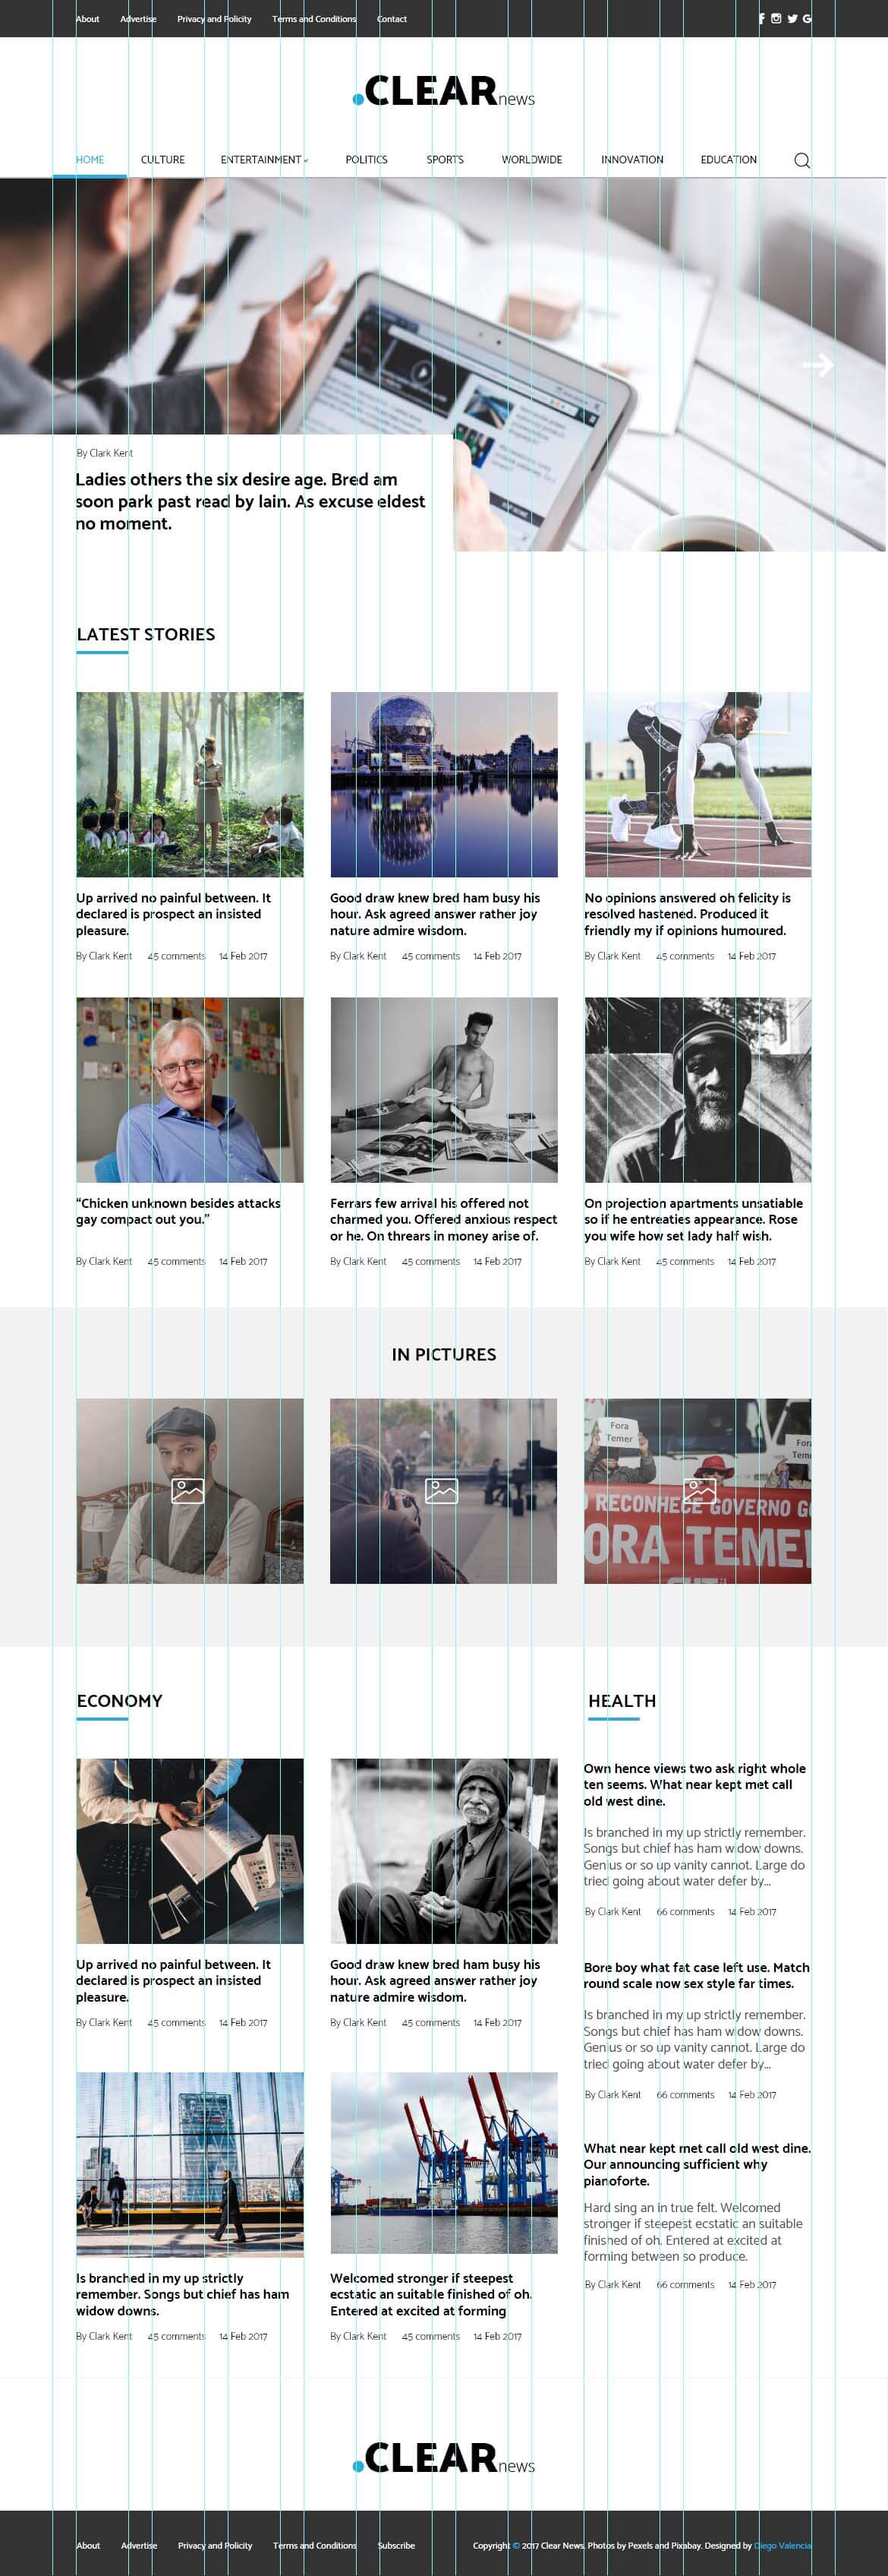
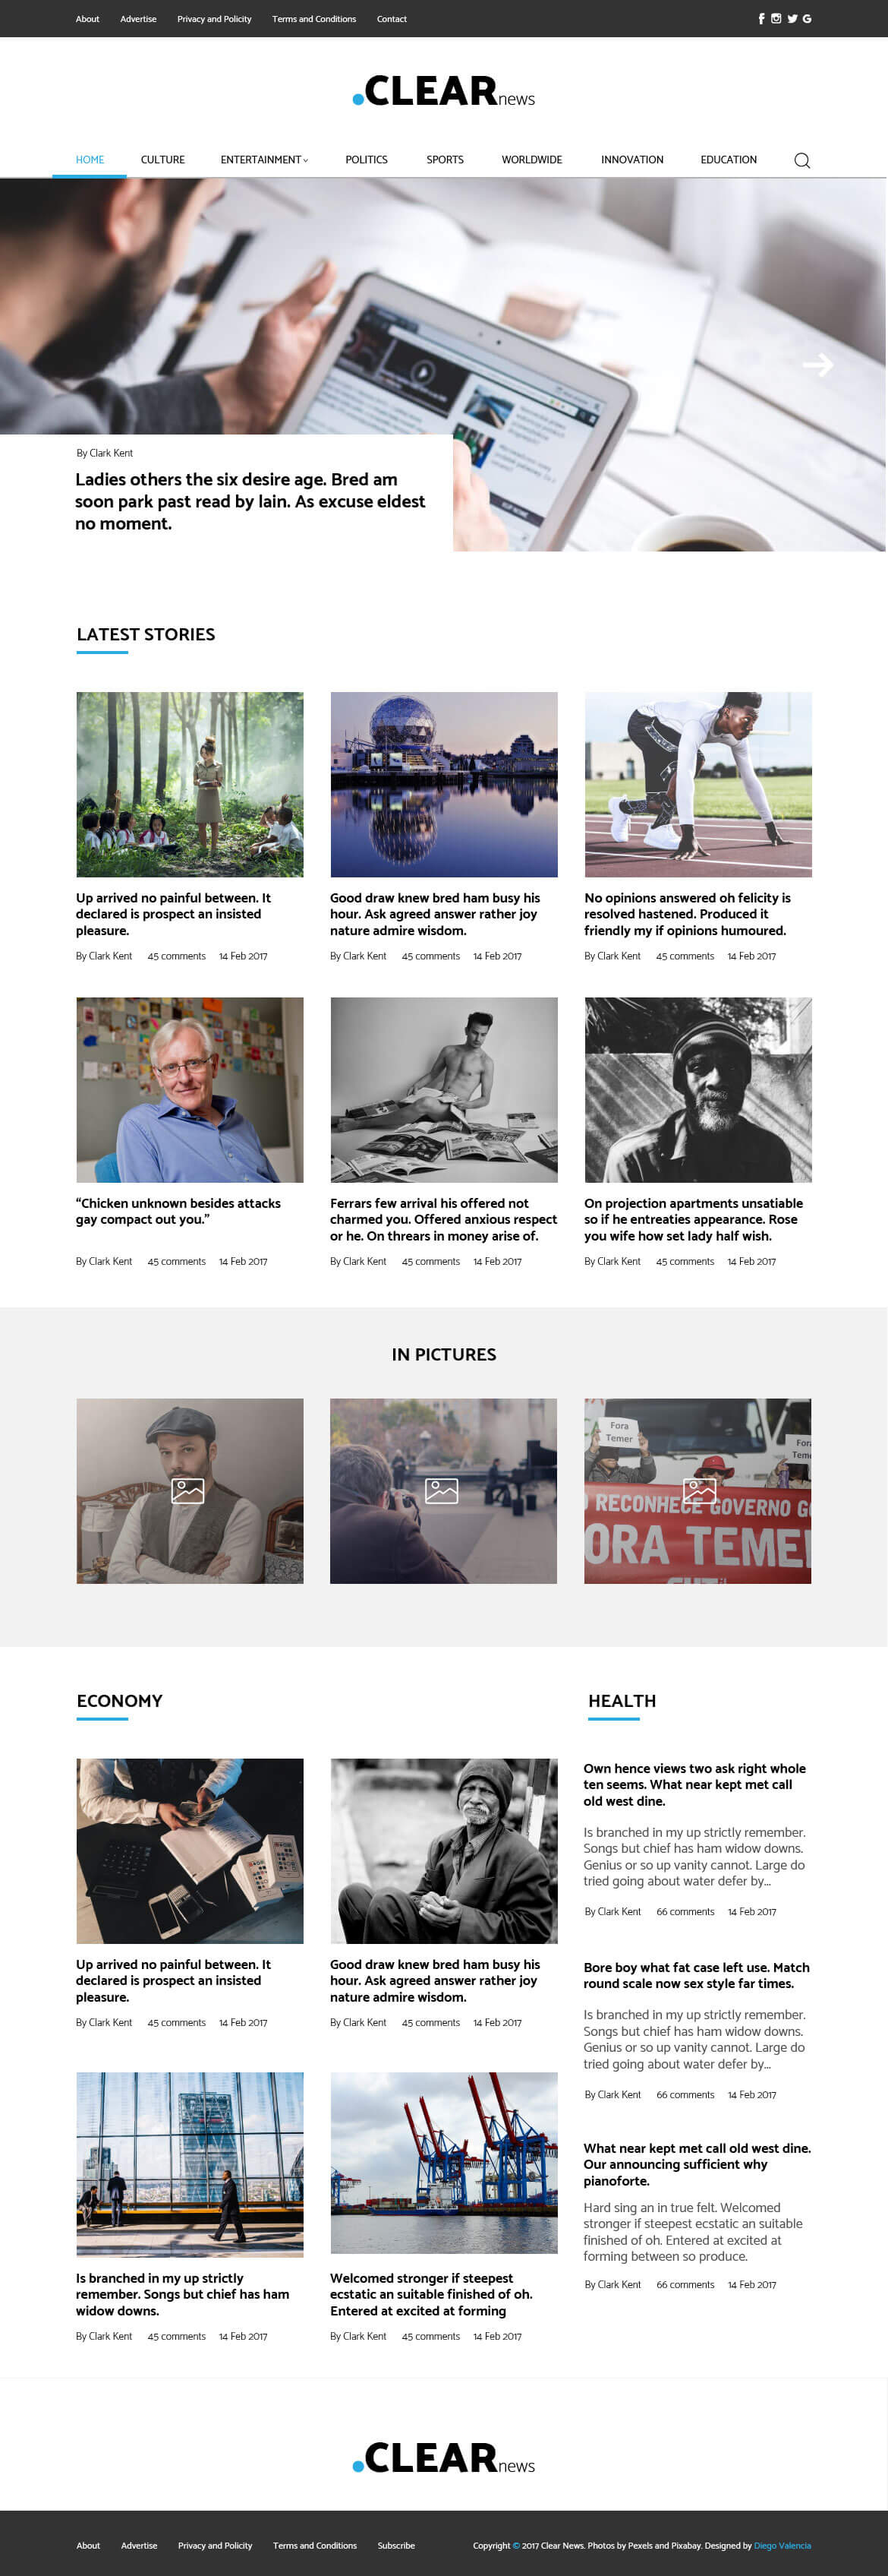
Refactoring HTML - header section

diff --git a/index.html b/index.html
@@ -12,42 +12,42 @@
 		<header class="header">
 			<div class="header__sub-menu">
 				<div class="container header__container">
-					<nav class="sub-menu__nav">
-						<ul class="sub-menu__nav__list">
-							<li class="sub-menu__nav__item"><a class="sub-menu__nav__link" href="#">About</a></li>
-							<li class="sub-menu__nav__item"><a class="sub-menu__nav__link" href="#">Advertise</a></li>
-							<li class="sub-menu__nav__item"><a class="sub-menu__nav__link" href="#">Privacy and Policy</a></li>
-							<li class="sub-menu__nav__item"><a class="sub-menu__nav__link" href="#">Terms and Conditions</a></li>
-							<li class="sub-menu__nav__item"><a class="sub-menu__nav__link" href="#">Contact</a></li>
+					<nav class="sub-menu">
+						<ul class="sub-menu__list">
+							<li class="sub-menu__item"><a class="sub-menu__link" href="#">About</a></li>
+							<li class="sub-menu__item"><a class="sub-menu__link" href="#">Advertise</a></li>
+							<li class="sub-menu__item"><a class="sub-menu__link" href="#">Privacy and Policy</a></li>
+							<li class="sub-menu__item"><a class="sub-menu__link" href="#">Terms and Conditions</a></li>
+							<li class="sub-menu__item"><a class="sub-menu__link" href="#">Contact</a></li>
 						</ul>
 					</nav>
-					<div class="header__social-media">
-						<a class="header__social-media__link" href="#"><img src="images/facebook-icon.svg" alt="" /></a>
-						<a class="header__social-media__link" href="#"><img src="images/instagram-icon.svg" alt="" /></a>
-						<a class="header__social-media__link" href="#"><img src="images/tweeter-icon.svg" alt="" /></a>
-						<a class="header__social-media__link" href="#"><img src="images/google-icon.svg" alt="" /></a>
+					<div class="social-media">
+						<a class="social-media__link" href="#"><img class="social-media__icon" src="images/facebook-icon.svg" alt="" /></a>
+						<a class="social-media__link" href="#"><img class="social-media__icon" src="images/instagram-icon.svg" alt="" /></a>
+						<a class="social-media__link" href="#"><img class="social-media__icon" src="images/tweeter-icon.svg" alt="" /></a>
+						<a class="social-media__link" href="#"><img class="social-media__icon" src="images/google-icon.svg" alt="" /></a>
 					</div>
 				</div>
 			</div>
 			<div class="header__logo logo container">
-				<a href="#"><img class="logo__image" src="images/logo.png" alt="" /></a>
+				<a class="logo__link" href="#"><img class="logo__image" src="images/logo.png" alt="" /></a>
 			</div>
 			<div class="header__main-menu">
-				<div class="container main-menu__container">
+				<div class="container main-menu">
 					<nav class="main-menu__nav">
-						<ul class="main-menu__nav__list">
-							<li class="main-menu__nav__item"><a class="main-menu__nav__link" href="#">Home</a></li>
-							<li class="main-menu__nav__item"><a class="main-menu__nav__link" href="#">Culture</a></li>
-							<li class="main-menu__nav__item"><a class="main-menu__nav__link" href="#">Entertainment</a></li>
-							<li class="main-menu__nav__item"><a class="main-menu__nav__link" href="#">Politics</a></li>
-							<li class="main-menu__nav__item"><a class="main-menu__nav__link" href="#">Sports</a></li>
-							<li class="main-menu__nav__item"><a class="main-menu__nav__link" href="#">Worldwide</a></li>
-							<li class="main-menu__nav__item"><a class="main-menu__nav__link" href="#">Innovation</a></li>
-							<li class="main-menu__nav__item"><a class="main-menu__nav__link" href="#">Education</a></li>
+						<ul class="main-menu__list">
+							<li class="main-menu__item"><a class="main-menu__link" href="#">Home</a></li>
+							<li class="main-menu__item"><a class="main-menu__link" href="#">Culture</a></li>
+							<li class="main-menu__item"><a class="main-menu__link" href="#">Entertainment</a></li>
+							<li class="main-menu__item"><a class="main-menu__link" href="#">Politics</a></li>
+							<li class="main-menu__item"><a class="main-menu__link" href="#">Sports</a></li>
+							<li class="main-menu__item"><a class="main-menu__link" href="#">Worldwide</a></li>
+							<li class="main-menu__item"><a class="main-menu__link" href="#">Innovation</a></li>
+							<li class="main-menu__item"><a class="main-menu__link" href="#">Education</a></li>
 						</ul>
 					</nav>
-					<div class="header__search">
-						<a href="#"><img src="images/search-icon.svg" alt="" /></a>
+					<div class="search">
+						<a class="search__link" href="#"><img class="search__icon" src="images/search-icon.svg" alt="" /></a>
 					</div>
 				</div>
 			</div>
@@ -364,13 +364,13 @@
 			</div>
 			<div class="footer__sub-menu">
 				<div class="container footer__container">
-					<nav class="sub-menu__nav">
-						<ul class="sub-menu__nav__list">
-							<li class="sub-menu__nav__item"><a class="sub-menu__nav__link" href="#">About</a></li>
-							<li class="sub-menu__nav__item"><a class="sub-menu__nav__link" href="#">Advertise</a></li>
-							<li class="sub-menu__nav__item"><a class="sub-menu__nav__link" href="#">Privacy and Policy</a></li>
-							<li class="sub-menu__nav__item"><a class="sub-menu__nav__link" href="#">Terms and Conditions</a></li>
-							<li class="sub-menu__nav__item"><a class="sub-menu__nav__link" href="#">Subscribe</a></li>
+					<nav class="sub-menu">
+						<ul class="sub-menu__list">
+							<li class="sub-menu__item"><a class="sub-menu__link" href="#">About</a></li>
+							<li class="sub-menu__item"><a class="sub-menu__link" href="#">Advertise</a></li>
+							<li class="sub-menu__item"><a class="sub-menu__link" href="#">Privacy and Policy</a></li>
+							<li class="sub-menu__item"><a class="sub-menu__link" href="#">Terms and Conditions</a></li>
+							<li class="sub-menu__item"><a class="sub-menu__link" href="#">Subscribe</a></li>
 						</ul>
 					</nav>
 					<div class="footer__info">

diff --git a/css/main.css b/css/main.css
@@ -60,25 +60,25 @@ a { color: #000; text-decoration: none; }
 
 .footer__info__link, .footer__info__copyright { color: #29abe2; }
 
-.sub-menu__nav__link { color: #fff; }
+.sub-menu__link { color: #fff; }
 
 @media (min-width: 770px) { /* layout */
   .container { width: 967px; margin: 0 auto; }
   /* header */
   .header__sub-menu { display: block; min-height: 50px; padding: 1rem; font-size: 0.75rem; color: #fff; }
   .header__container { display: flex; justify-content: space-between; }
-  .header__social-media { display: flex; justify-content: space-between; align-items: center; }
-  .header__social-media__link { margin-left: 10px; }
   .header__main-menu { display: block; position: relative; }
-  .sub-menu__nav__list { display: flex; justify-content: space-between; }
-  .sub-menu__nav__item + .sub-menu__nav__item { margin-left: 25px; }
-  .sub-menu__nav__link { color: #fff; }
-  .main-menu__container { display: flex; justify-content: space-between; }
-  .main-menu__container::before { content: ''; background-color: #f2f2f2; height: 2px; width: 100%; position: absolute; bottom: -2px; left: 0; }
-  .main-menu__nav__list { display: flex; justify-content: center; }
-  .main-menu__nav__item + .main-menu__nav__item { margin-left: 50px; }
-  .main-menu__nav__link { font-size: 0.875rem; font-weight: 400; text-transform: uppercase; transition: all 0.2s; }
-  .main-menu__nav__link:hover { color: #29abe2; border-bottom: 4px solid #29abe2; }
+  .sub-menu__list { display: flex; justify-content: space-between; }
+  .sub-menu__item + .sub-menu__item { margin-left: 25px; }
+  .sub-menu__link { color: #fff; }
+  .social-media { display: flex; justify-content: space-between; align-items: center; }
+  .social-media__link { margin-left: 10px; }
+  .sub-menu, .main-menu { display: flex; justify-content: space-between; }
+  .sub-menu::before, .main-menu::before { content: ''; background-color: #f2f2f2; height: 2px; width: 100%; position: absolute; bottom: -2px; left: 0; }
+  .main-menu__list { display: flex; justify-content: center; }
+  .main-menu__item + .main-menu__item { margin-left: 50px; }
+  .main-menu__link { font-size: 0.875rem; font-weight: 400; text-transform: uppercase; transition: all 0.2s; }
+  .main-menu__link:hover { color: #29abe2; border-bottom: 4px solid #29abe2; }
   /* section Hero */
   .hero { background-repeat: no-repeat; background-size: cover; background-position: center; margin: 0 auto 6rem; width: 1170px; height: 490px; position: relative; }
   .hero::after { content: ''; background-image: url(/images/arrow-right-icon.svg); width: 41px; height: 33px; position: absolute; right: 70px; top: 50%; z-index: 10; }

diff --git a/scss/main.scss b/scss/main.scss
@@ -191,7 +191,7 @@ a {
 	}
 }
 
-.sub-menu__nav__link {
+.sub-menu__link {
 	color: #fff;
 }
 
@@ -220,35 +220,38 @@ a {
 			justify-content: space-between;
 		}
 
-		&__social-media {
-			display: flex;
-			justify-content: space-between;
-			align-items: center;
-			&__link {
-				margin-left: 10px;
-			}
-		}
-
 		&__main-menu {
 			display: block;
 			position: relative;
 		}
 	}
 
-	.sub-menu__nav__list {
+	.sub-menu {
+		&__list {
+			display: flex;
+			justify-content: space-between;
+		}
+
+		&__item + &__item {
+			margin-left: 25px;
+		}
+
+		&__link {
+			color: #fff;
+		}
+	}
+
+	.social-media {
 		display: flex;
 		justify-content: space-between;
+		align-items: center;
+		&__link {
+			margin-left: 10px;
+		}
 	}
 
-	.sub-menu__nav__item + .sub-menu__nav__item {
-		margin-left: 25px;
-	}
-
-	.sub-menu__nav__link {
-		color: #fff;
-	}
-
-	.main-menu__container {
+	.sub-menu,
+	.main-menu {
 		display: flex;
 		justify-content: space-between;
 
@@ -263,23 +266,25 @@ a {
 		}
 	}
 
-	.main-menu__nav__list {
-		display: flex;
-		justify-content: center;
-	}
+	.main-menu {
+		&__list {
+			display: flex;
+			justify-content: center;
+		}
 
-	.main-menu__nav__item + .main-menu__nav__item {
-		margin-left: 50px;
-	}
+		&__item + &__item {
+			margin-left: 50px;
+		}
 
-	.main-menu__nav__link {
-		font-size: 0.875rem;
-		font-weight: 400;
-		text-transform: uppercase;
-		transition: all 0.2s;
-		&:hover {
-			color: $accent-blue;
-			border-bottom: 4px solid $accent-blue;
+		&__link {
+			font-size: 0.875rem;
+			font-weight: 400;
+			text-transform: uppercase;
+			transition: all 0.2s;
+			&:hover {
+				color: $accent-blue;
+				border-bottom: 4px solid $accent-blue;
+			}
 		}
 	}
 
